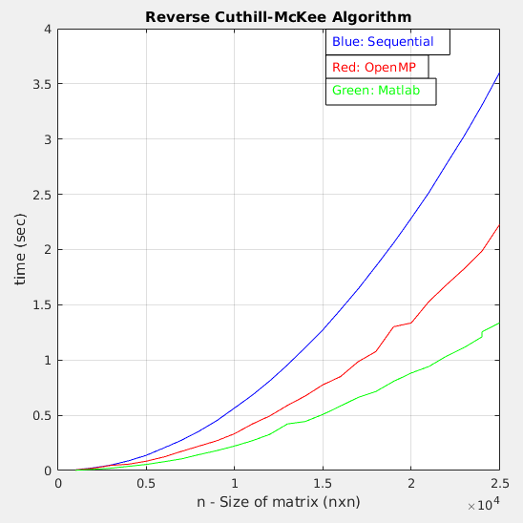
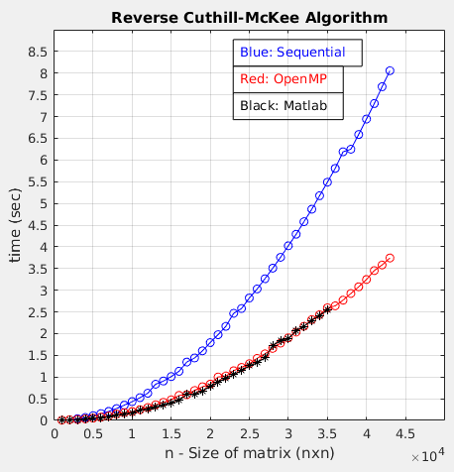
Update matlab scripts and diagrams

diff --git a/matlab/scripts/data_analysis.m b/matlab/scripts/data_analysis.m
@@ -6,16 +6,16 @@
 for i = 1:3
     if i == 1
         file = '../results/seq.txt';
-        line = '-';
+        line = '-o';
         color = 'b';
     elseif i == 2
         file = '../results/omp.txt';
-        line = '-';
+        line = '-o';
         color = 'r';
     else
         file = '../results/matlab.txt';
         line = '-*';
-        color = 'g';   
+        color = 'black';   
     end
     
     A_temp = load(file);
@@ -48,14 +48,14 @@ axis square;
 % TextBoxes
 annotation('textbox', [.7 .4 .4 .3], 'String', 'Blue: Sequential', 'FitBoxToText', 'on', 'Color', 'Blue');
 annotation('textbox', [.7 .5 .4 .3], 'String', 'Red: OpenMP', 'FitBoxToText', 'on', 'Color', 'Red');
-annotation('textbox', [.7 .5 .4 .3], 'String', 'Green: Matlab', 'FitBoxToText', 'on', 'Color', 'Green');
+annotation('textbox', [.7 .5 .4 .3], 'String', 'Black: Matlab', 'FitBoxToText', 'on', 'Color', 'Black');
 
 %% Plot the speedup
 x = speedup(:,1);
 y = speedup(:,2);
 
 figure;
-plot(x, y, line, 'color', color);
+plot(x, y, line, 'color', 'green');
 
 title('Speedup of the parallel implementation');
 xlabel('n - Size of matrix (nxn)');
@@ -64,5 +64,3 @@ ylabel('Speedup');
 yticks(1:0.1:max(speedup(:,2))+0.1)
 grid on;
 axis square;
-
-

diff --git a/matlab/scripts/rcm.m b/matlab/scripts/rcm.m
@@ -8,18 +8,18 @@
 %%%%%%%%%%%%%%%%%%%%%%%%%%%%%%%%%%%%%%%%%%%%%%%%%%%%%%%%%%%%
 
 size = 3;
-n = 1000;
+arg = 'seq'; % This must be the same as the third argument when running the program
 
 %% Read the input matrix
 figure;
-filename = ['../matrices/inputs/input_' num2str(n) '.csv'];
+filename = ['../../matrices/input_' num2str(arg)];
 input = csvread(filename);
 spy(input, size);
 title('Input matrix');
 
 %% Implementation in C
 figure;
-filename = ['../matrices/seq/output_' num2str(n) '.csv'];
+filename = ['../../matrices/output_' num2str(arg)];
 output_c = csvread(filename);
 spy(output_c, size);
 title('Reverse Cuthill-McKee (C)');

diff --git a/matlab/scripts/tests.m b/matlab/scripts/tests.m
@@ -3,9 +3,9 @@
 %    for various input matrices, and then stores the time elapsed    %
 %%%%%%%%%%%%%%%%%%%%%%%%%%%%%%%%%%%%%%%%%%%%%%%%%%%%%%%%%%%%%%%%%%%%%%
 
-for i = 1:20
+for i = 1:35
     % Read the input matrix
-    filename = ['../matrices/inputs/input_' num2str(i*1000) '.csv'];
+    filename = ['../../matrices/input_' num2str(i*1000) '.csv'];
     input = csvread(filename);
     
     n = size(input,1);
